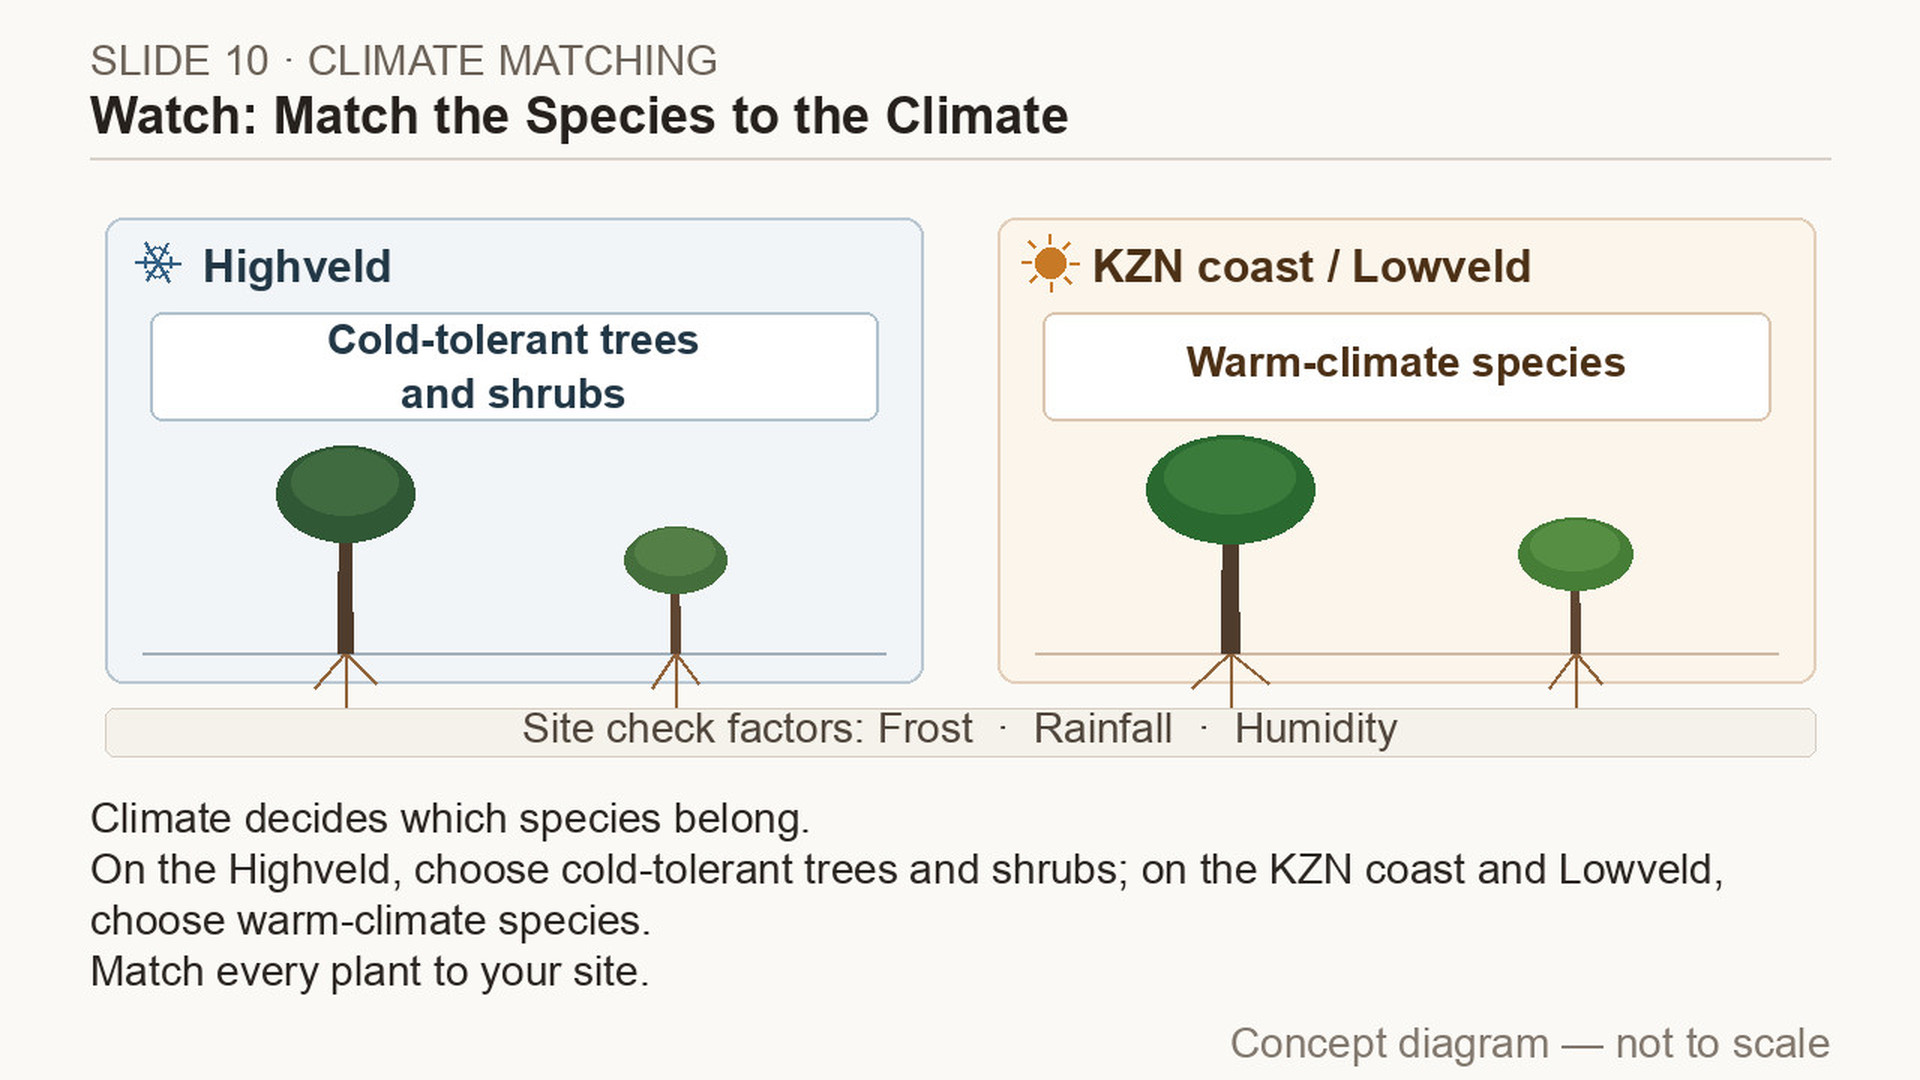
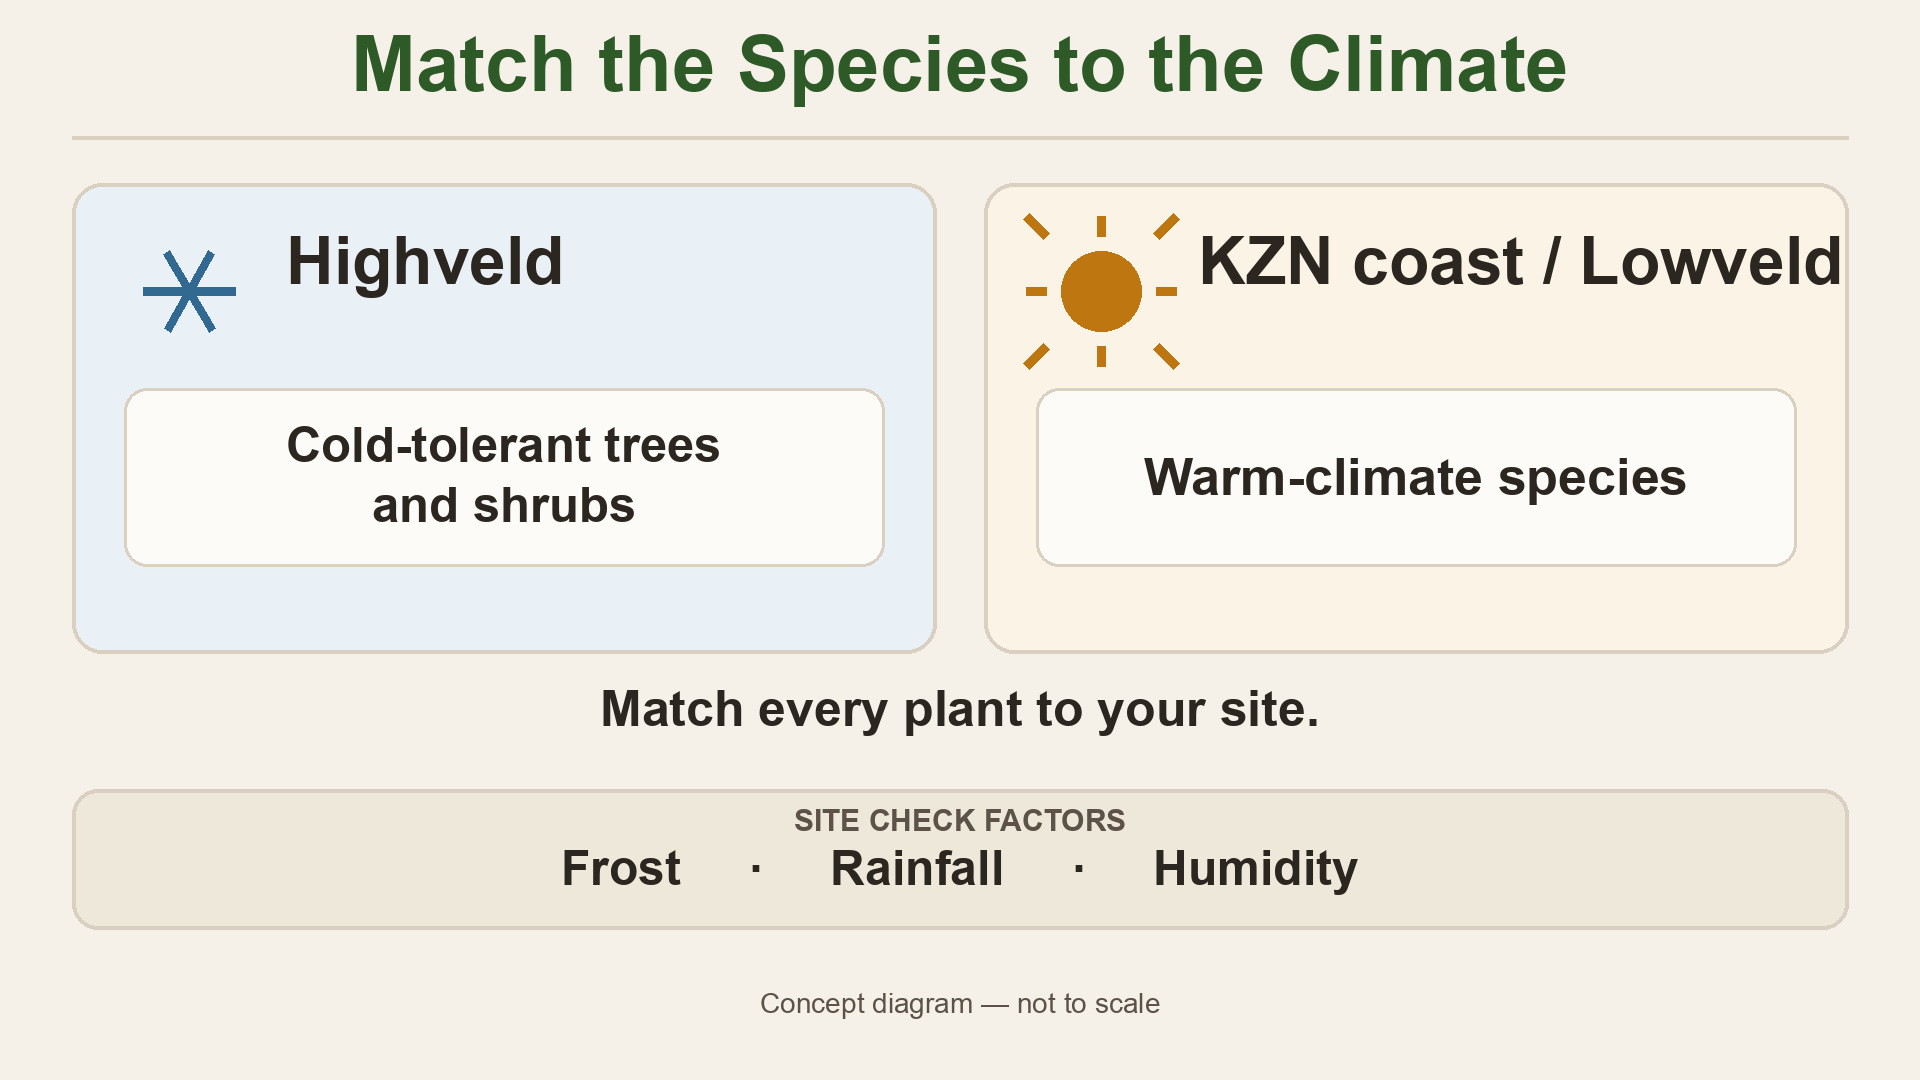
Make Food Forest climate comparison readable on phones

diff --git a/app/sw.js/route.ts b/app/sw.js/route.ts
@@ -677,6 +677,20 @@ async function migrateFoodForestLayerKeyStill() {
   await cache.put(marker, new Response('Phone-readable seven-layer key'));
 }
 
+// Slide 10 now presents the existing climate comparison in large panels. Clear
+// only that saved picture; learners choose when to download its replacement.
+async function migrateFoodForestClimateMatchStill() {
+  const cache = await caches.open(COURSE_CACHE);
+  const marker = '/course-decks/food-forest/en/.climate-match-still-20260923';
+  if (await cache.match(marker)) return;
+  for (const request of await cache.keys()) {
+    if (new URL(request.url).pathname === '/course-decks/food-forest/en/slide-10.jpg') {
+      await cache.delete(request);
+    }
+  }
+  await cache.put(marker, new Response('Phone-readable climate comparison'));
+}
+
 // Slide 14's four sharing labels are now readable at phone fit. Invalidate only
 // that saved picture; the learner chooses when to download its replacement.
 async function migrateMarketCommunityNetworkStill() {
@@ -706,7 +720,7 @@ self.addEventListener('activate', function (event) {
           })
           .map(function (key) { return caches.delete(key); })
       );
-    }).then(migrateGuildNarration).then(migrateStudiesMedia).then(migrateChickenForagingMedia).then(migrateForestLayerMedia).then(migrateSoilObservationMedia).then(migrateForestEstablishmentMedia).then(migrateLandscapeSiteMapNarration).then(migrateForestMulchInfographic).then(migrateForestSheetMulchingMedia).then(migrateVegetableChoiceMedia).then(migrateUnapprovedStudyAnimations).then(migrateBeeHiveAndBlossomMedia).then(migrateGreywaterTeachingMedia).then(migrateWindbreakMedia).then(migrateSoilCoverStills).then(migrateMarketRecordStill).then(migrateFoodForestLayerKeyStill).then(migrateHeldAuthoredStudyAnimations).then(migrateHeldWaterSwaleMedia).then(migrateMarketL2RouteStill).then(migrateMarketCommunityNetworkStill).then(function () {
+    }).then(migrateGuildNarration).then(migrateStudiesMedia).then(migrateChickenForagingMedia).then(migrateForestLayerMedia).then(migrateSoilObservationMedia).then(migrateForestEstablishmentMedia).then(migrateLandscapeSiteMapNarration).then(migrateForestMulchInfographic).then(migrateForestSheetMulchingMedia).then(migrateVegetableChoiceMedia).then(migrateUnapprovedStudyAnimations).then(migrateBeeHiveAndBlossomMedia).then(migrateGreywaterTeachingMedia).then(migrateWindbreakMedia).then(migrateSoilCoverStills).then(migrateMarketRecordStill).then(migrateFoodForestLayerKeyStill).then(migrateFoodForestClimateMatchStill).then(migrateHeldAuthoredStudyAnimations).then(migrateHeldWaterSwaleMedia).then(migrateMarketL2RouteStill).then(migrateMarketCommunityNetworkStill).then(function () {
       // Take control of already-open tabs so this version's fetch handler
       // (and therefore network-first HTML) runs without needing a reload first.
       return self.clients.claim();

diff --git a/tests/studies-media-migration.test.ts b/tests/studies-media-migration.test.ts
@@ -68,6 +68,42 @@ test('a saved Food Forest layer key replaces only its old still and preserves na
   assert.equal(await rows.get(replacement.url)!.text(), 'new key');
 });
 
+test('a saved Food Forest climate comparison clears only slide 10 and leaves its lesson pack intact', async () => {
+  const source = readFileSync(new URL('../app/sw.js/route.ts', import.meta.url), 'utf8');
+  const body = source.match(/async function migrateFoodForestClimateMatchStill\(\) \{([\s\S]*?)\n\}/)?.[1];
+  assert.ok(body);
+  assert.match(source, /then\(migrateFoodForestClimateMatchStill\)\.then/);
+
+  const origin = 'https://field.test';
+  const oldStill = new Request(origin + '/course-decks/food-forest/en/slide-10.jpg?cached=1');
+  const narration = new Request(origin + '/course-audio/food-forest/en/slide-10.mp3');
+  const anotherStill = new Request(origin + '/course-decks/food-forest/en/slide-11.jpg');
+  const otherModule = new Request(origin + '/course-decks/market-community/en/slide-10.jpg');
+  const rows = new Map<string, Response>([
+    [oldStill.url, new Response('old climate diagram')],
+    [narration.url, new Response('saved narration')],
+    [anotherStill.url, new Response('saved next slide')],
+    [otherModule.url, new Response('saved other module')],
+  ]);
+  const cache = {
+    match: async (key: string) => rows.get(origin + key),
+    keys: async () => [...rows.keys()].map(url => new Request(url)),
+    delete: async (request: Request) => rows.delete(request.url),
+    put: async (key: string, response: Response) => { rows.set(origin + key, response); },
+  };
+  const run = new Function('caches', 'COURSE_CACHE', 'Response', 'return (async () => {' + body + '})()');
+  await run({ open: async () => cache }, 'imbewu-course-v1', Response);
+  assert.equal(rows.has(oldStill.url), false);
+  for (const request of [narration, anotherStill, otherModule]) assert.equal(rows.has(request.url), true);
+  assert.equal(rows.has(origin + '/course-decks/food-forest/en/.climate-match-still-20260923'), true);
+  assert.doesNotMatch(body, /\bfetch\(/, 'the migration must not silently spend learner airtime');
+
+  const replacement = new Request(origin + '/course-decks/food-forest/en/slide-10.jpg');
+  rows.set(replacement.url, new Response('new comparison'));
+  await run({ open: async () => cache }, 'imbewu-course-v1', Response);
+  assert.equal(await rows.get(replacement.url)!.text(), 'new comparison');
+});
+
 test('a saved Market community network gets the phone-readable still without clearing seed-sharing media', async () => {
   const source = readFileSync(new URL('../app/sw.js/route.ts', import.meta.url), 'utf8');
   const body = source.match(/async function migrateMarketCommunityNetworkStill\(\) \{([\s\S]*?)\n\}/)?.[1];

diff --git a/lib/course-asset-sizes.ts b/lib/course-asset-sizes.ts
@@ -423,7 +423,7 @@ export const COURSE_ASSET_SIZES: Readonly<Record<string, number>> = Object.freez
   '/course-decks/food-forest/en/slide-07.jpg': 142318,
   '/course-decks/food-forest/en/slide-08.jpg': 1077897,
   '/course-decks/food-forest/en/slide-09.jpg': 252956,
-  '/course-decks/food-forest/en/slide-10.jpg': 235050,
+  '/course-decks/food-forest/en/slide-10.jpg': 202475,
   '/course-decks/food-forest/en/slide-11.jpg': 140996,
   '/course-decks/food-forest/en/slide-12.jpg': 142322,
   '/course-decks/food-forest/en/slide-13.jpg': 965661,

diff --git a/docs/media/studies-animation-quality/render-food-forest-l2-climate-still.py b/docs/media/studies-animation-quality/render-food-forest-l2-climate-still.py
@@ -1,0 +1,114 @@
+#!/usr/bin/env python3
+"""Recompose Food Forest L2 slide 10 as a phone-readable static comparison.
+
+The lesson names regions as examples and asks learners to check each plant at
+their own site. The paired panels therefore name no species and imply no
+universal regional planting list.
+"""
+
+from pathlib import Path
+from PIL import Image, ImageDraw, ImageFont
+
+
+ROOT = Path(__file__).resolve().parents[3]
+OUTPUT = ROOT / "public/course-decks/food-forest/en/slide-10.jpg"
+WIDTH, HEIGHT = 1920, 1080
+
+CREAM = (245, 241, 232)
+CARD = (253, 251, 247)
+TEXT = (44, 38, 32)
+MUTED = (92, 82, 72)
+FOREST = (45, 90, 39)
+PALE_GREEN = (232, 240, 229)
+PALE_BLUE = (233, 241, 246)
+SOIL = (92, 64, 51)
+BORDER = (217, 208, 193)
+GOLD = (190, 119, 16)
+
+FONT_REGULAR = Path("/System/Library/Fonts/Supplemental/Arial.ttf")
+FONT_BOLD = Path("/System/Library/Fonts/Supplemental/Arial Bold.ttf")
+if not FONT_BOLD.exists():
+    FONT_BOLD = Path("/usr/share/fonts/truetype/dejavu/DejaVuSans-Bold.ttf")
+if not FONT_REGULAR.exists():
+    FONT_REGULAR = Path("/usr/share/fonts/truetype/dejavu/DejaVuSans.ttf")
+
+
+def font(size: int, bold: bool = False) -> ImageFont.FreeTypeFont:
+    return ImageFont.truetype(FONT_BOLD if bold else FONT_REGULAR, size)
+
+
+def centered(draw: ImageDraw.ImageDraw, text: str, y: int, size: int,
+             fill: tuple[int, int, int], bold: bool = False) -> None:
+    f = font(size, bold)
+    left, top, right, _ = draw.textbbox((0, 0), text, font=f)
+    draw.text(((WIDTH - (right - left)) / 2 - left, y - top), text,
+              font=f, fill=fill)
+
+
+def sun(draw: ImageDraw.ImageDraw, cx: int, cy: int) -> None:
+    draw.ellipse((cx - 40, cy - 40, cx + 40, cy + 40), fill=GOLD)
+    for dx, dy in ((0, -1), (1, 0), (0, 1), (-1, 0),
+                   (1, -1), (1, 1), (-1, 1), (-1, -1)):
+        draw.line((cx + dx * 55, cy + dy * 55,
+                   cx + dx * 75, cy + dy * 75), fill=GOLD, width=9)
+
+
+def snowflake(draw: ImageDraw.ImageDraw, cx: int, cy: int) -> None:
+    for angle in (0, 60, 120):
+        import math
+        dx = int(46 * math.cos(math.radians(angle)))
+        dy = int(46 * math.sin(math.radians(angle)))
+        draw.line((cx - dx, cy - dy, cx + dx, cy + dy),
+                  fill=(49, 105, 145), width=9)
+
+
+def check_card(draw: ImageDraw.ImageDraw, x: int, y: int, w: int,
+               label: str) -> None:
+    draw.rounded_rectangle((x, y, x + w, y + 104), radius=24,
+                           fill=CARD, outline=BORDER, width=4)
+    draw.text((x + 32, y + 25), label, font=font(45, True), fill=TEXT)
+
+
+def main() -> None:
+    image = Image.new("RGB", (WIDTH, HEIGHT), CREAM)
+    draw = ImageDraw.Draw(image)
+
+    centered(draw, "Match the Species to the Climate", 34, 78, FOREST, True)
+    draw.line((72, 137, 1848, 137), fill=BORDER, width=4)
+
+    cards = (
+        (72, PALE_BLUE, (49, 105, 145), "Highveld",
+         ("Cold-tolerant trees", "and shrubs"), snowflake),
+        (984, (250, 243, 230), GOLD, "KZN coast / Lowveld",
+         "Warm-climate species", sun),
+    )
+    for x, fill, accent, region, guidance, icon in cards:
+        draw.rounded_rectangle((x, 183, x + 864, 653), radius=30,
+                               fill=fill, outline=BORDER, width=4)
+        icon(draw, x + 117, 291)
+        draw.text((x + 214, 224), region, font=font(66, True), fill=TEXT)
+        draw.rounded_rectangle((x + 52, 388, x + 812, 566), radius=23,
+                               fill=CARD, outline=BORDER, width=3)
+        labels = guidance if isinstance(guidance, tuple) else (guidance,)
+        label_font = font(49 if len(labels) > 1 else 52, True)
+        line_height = 60
+        first_y = 447 - ((len(labels) - 1) * line_height // 2)
+        for index, label in enumerate(labels):
+            bbox = draw.textbbox((0, 0), label, font=label_font)
+            draw.text((x + (864 - (bbox[2] - bbox[0])) / 2 - bbox[0],
+                       first_y + index * line_height),
+                      label, font=label_font, fill=TEXT)
+
+    centered(draw, "Match every plant to your site.", 690, 50, TEXT, True)
+    draw.rounded_rectangle((72, 789, 1848, 929), radius=26,
+                           fill=(238, 232, 219), outline=BORDER, width=4)
+    centered(draw, "SITE CHECK FACTORS", 809, 30, MUTED, True)
+    centered(draw, "Frost     ·     Rainfall     ·     Humidity", 850, 48,
+             TEXT, True)
+    centered(draw, "Concept diagram — not to scale", 992, 28, MUTED)
+
+    image.save(OUTPUT, format="JPEG", quality=93, subsampling=0, optimize=True)
+
+
+if __name__ == "__main__":
+    main()

diff --git a/docs/media/studies-animation-quality/food-forest-l2-lesson-check.md b/docs/media/studies-animation-quality/food-forest-l2-lesson-check.md
@@ -1,9 +1,10 @@
 # Food Forest Design L2 English lesson check — 23 September 2026
 
-**Status:** English source and deployed still/audio technical check passed with a
-phone-legibility issue. Human, learner and practitioner review remain open. No
-protected teaching asset changed, no animation was released, and no Flow credit
-was spent. Farm Finance is excluded.
+**Status:** English source and deployed still/audio technical check passed. A
+static slide 10 candidate now addresses the phone-legibility issue. Human,
+learner and practitioner review remain open. No protected teaching asset
+changed, no animation was released, and no Flow credit was spent. Farm Finance
+is excluded.
 
 ## Actual media and phone playback
 
@@ -14,9 +15,8 @@ map; slide 10 compares a cold Highveld setting with a warm KZN coast/Lowveld
 setting; slides 11–12 list regional examples; slide 13 is a garden scene without
 a person. The map and slide 10 diagram are conceptual, not planting directions
 or a site survey. Slide 10's secondary labels and the example text on slides
-11–12 are hard to read at the phone's fitted-image size. The narrated audio,
-expandable lesson text and full-size still link are available, but this
-legibility issue needs a later visual treatment and learner check.
+11–12 were hard to read at the phone's fitted-image size. The narrated audio,
+expandable lesson text and full-size still link are available.
 
 The saved 17.7 MB Food Forest module pack reopened after an offline browser
 reload. The header displayed **Offline** and **On this phone**, slide 10's still
@@ -27,12 +27,21 @@ preview, not a physical handset or learner comprehension.
 The archived `watch-10-climate-match.mp4` is a flat, locally drawn animation
 with tree icons that grow and shrink between climate panels. It remains outside
 `FOREST_ANIMATIONS` and the offline pack under Rory's requirement to clear
-SVG/code-drawn motion with him first. The deployed slide still says “Watch” in
-its title and artwork, although it correctly offers a still and narration, not
-a video or Watch control. A matching title/artwork change belongs with a
-reviewed visual replacement; it was not made here. The existing Flow
-sheet-mulching clip on slide 16 concerns lesson 3 and cannot stand in for this
-climate comparison.
+SVG/code-drawn motion with him first. The existing Flow sheet-mulching clip on
+slide 16 concerns lesson 3 and cannot stand in for this climate comparison.
+
+The static candidate in
+[`render-food-forest-l2-climate-still.py`](render-food-forest-l2-climate-still.py)
+uses two large generic climate panels, the existing site-match prompt, and the
+existing Frost / Rainfall / Humidity factors. It names no species and does not
+say that a region universally suits a planting. The image heading drops
+“Watch” because the lesson has no video or Watch control; the audio track title
+still contains “Watch,” so that title mismatch remains open. The 1920 × 1080
+candidate was inspected full-size and at the player's 269 × 151 fit. Both
+region labels and guidance panels remain distinct; the factor labels are
+visible but secondary at this size. This is a local still inspection, not a
+deployed-player or learner check. Candidate SHA-256:
[1 lines of base64/hex data omitted]
 
 ## Source and farming safeguards
 
@@ -57,4 +66,7 @@ authorised, align that line, its recorded narration and the baked artwork to
 “Climate helps determine which species may suit a site.” That proposal is
 not approval to alter the existing species list.
 
-This check does not claim isiZulu, farmer, facilitator or practitioner approval.
+The candidate leaves the low-severity “Climate decides which species belong”
+overstatement for a separately authorised coordinated edit; it does not change
+the protected narration, transcript or lesson. This check does not claim
+isiZulu, farmer, facilitator or practitioner approval.
